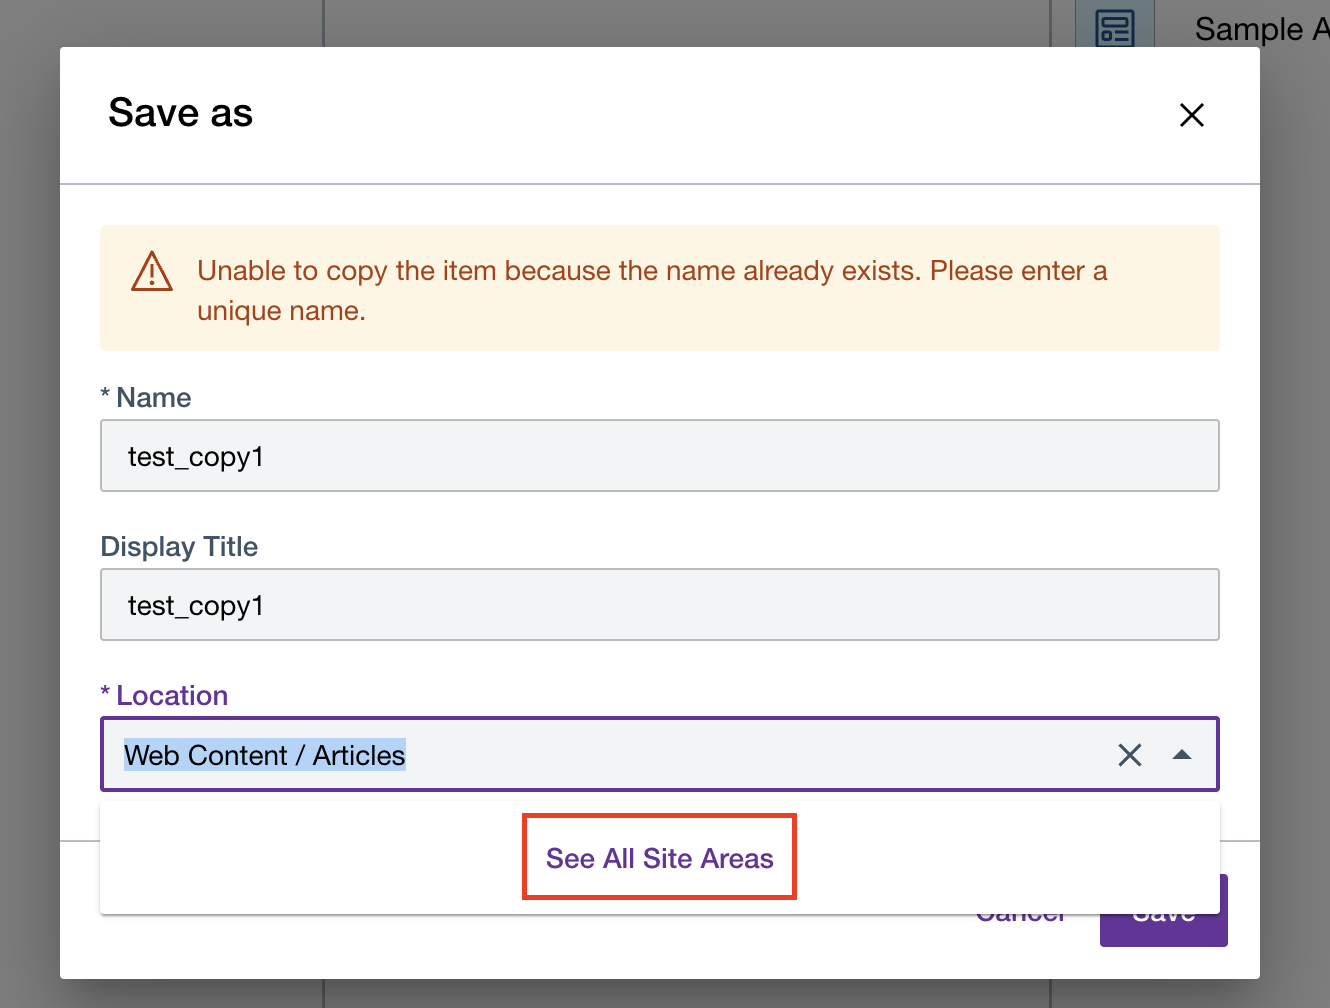
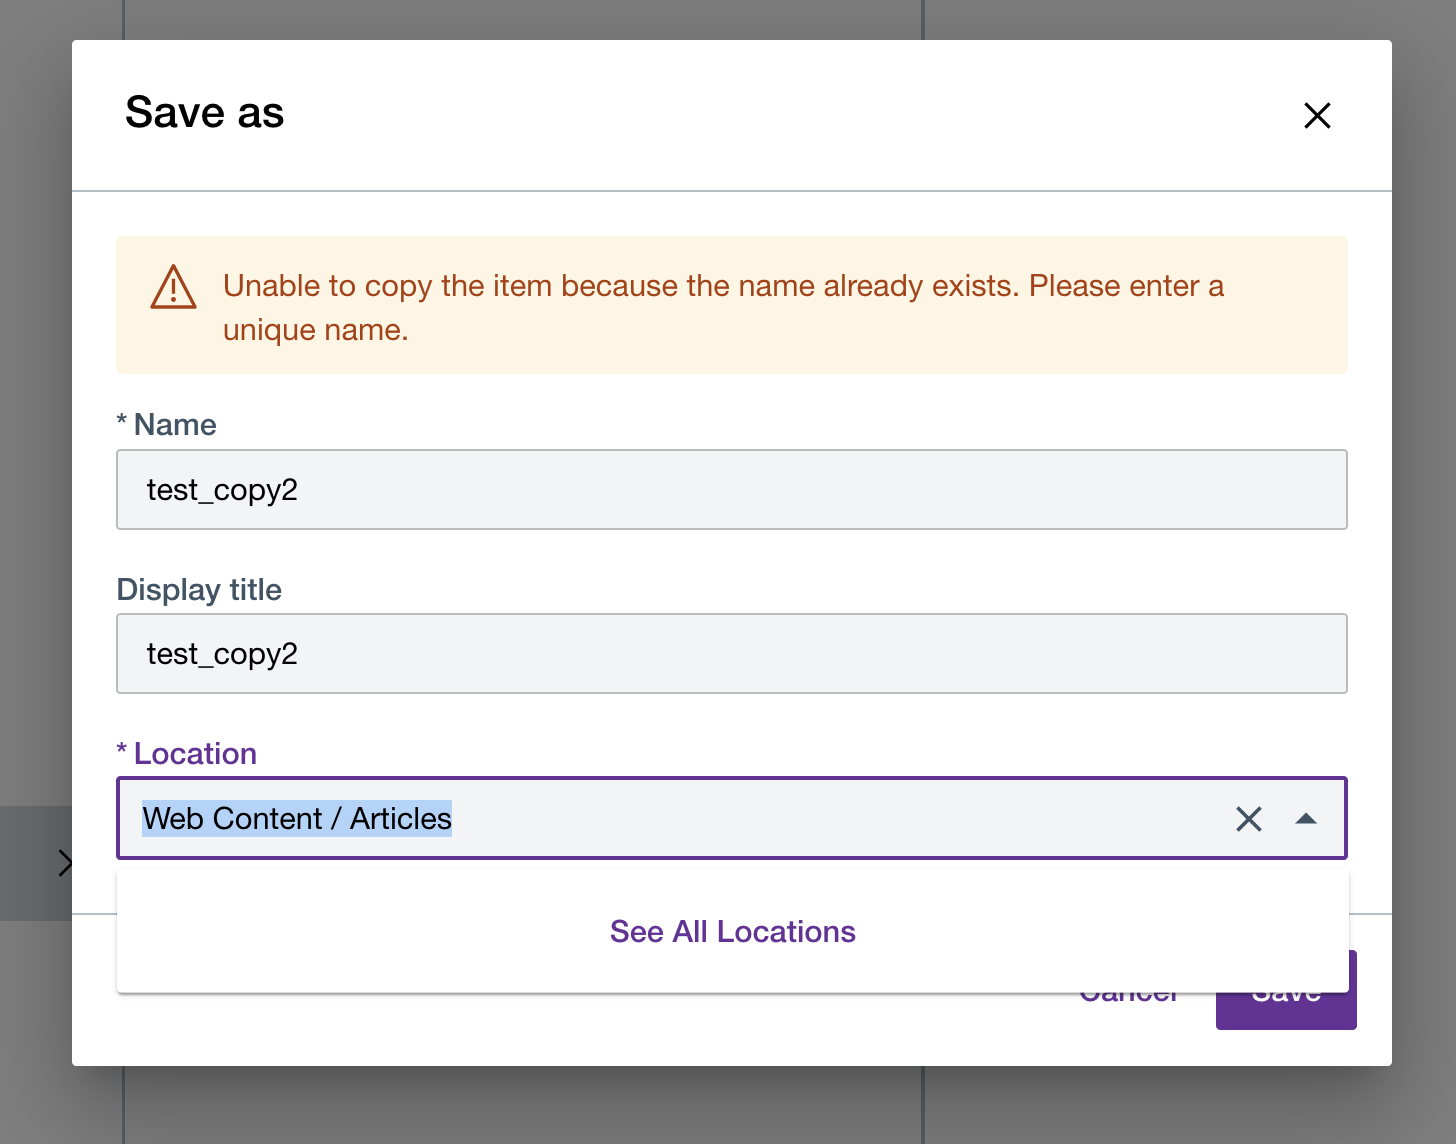
changed doc mentions of copying to a site area to also include portal page

Changed region(s): [[0.0308, 0.0, 1.0, 0.9841]]

diff --git a/docs/manage_content/wcm_authoring/content_composer/usage/author_and_manage_content_items/manage_content_items.md b/docs/manage_content/wcm_authoring/content_composer/usage/author_and_manage_content_items/manage_content_items.md
@@ -87,42 +87,42 @@ Content users can view a light preview of uploaded content and more using HCL Co
 
 ## Moving Content item
 
-Content users can move a content item to another site area location.
+Content users can move a content item to another location.
 
-1. Access the content item you wish to move. In this example, the content item example below \(**Image**\) is obtained from **Web Content \> Content \> Articles** site area location. Click the icon to select the content item. After doing so, click the **Move** icon on the header. 
+1. Access the content item you wish to move. In this example, the content item example below \(**Image**\) is obtained from **Web Content \> Content \> Articles** location. Click the icon to select the content item. After doing so, click the **Move** icon on the header. 
 
     ![Select Content Item to Move](../../../../../assets/Select_Content_Item_to_Move_HCL_Content_Composer.png)
 
-2. A location selector should appear on the screen. Pick the site area to move the content to. After selecting, click the **Move** button to finalize moving of the content item.
+2. A location selector should appear on the screen. Pick the location (site area or portal page) to move the content to. After selecting, click the **Move** button to finalize moving of the content item.
 
-    ![Select a site area location and click Move](../../../../../assets/Select_Site_Area_to_Move_Content_to_HCL_Content_Composer.png)
+    ![Select a location and click Move](../../../../../assets/Select_Site_Area_to_Move_Content_to_HCL_Content_Composer.png)
 
 ## Copying Content item
 
-Content users can copy a content item to another site area location.
+Content users can copy a content item to another location.
 
-1. Go to the content item you want to copy. In the example below, the content item is obtained from **Web Content > Content > Articles** site area location. Click the icon to select the content item and then click the **Copy** icon on the header. 
+1. Go to the content item you want to copy. In the example below, the content item is obtained from **Web Content > Content > Articles** location. Click the icon to select the content item and then click the **Copy** icon on the header. 
 
     ![Select Content Item to Copy](../../../../../assets/Select_Content_Item_to_Copy_HCL_Content_Composer.png)
 
-2. A location selector appears. Select the site area you want to copy the content to. After selecting, click the **Copy** button to finalize copying of the content item.
+2. A location selector appears. Select the location (site area or portal page) you want to copy the content to. After selecting, click the **Copy** button to finalize copying of the content item.
 
-    ![Select a site area location and click Copy](../../../../../assets/Select_Site_Area_to_Copy_Content_to_HCL_Content_Composer.png)
+    ![Select a location and click Copy](../../../../../assets/Select_Site_Area_to_Copy_Content_to_HCL_Content_Composer.png)
 
 
 ## Renaming Content item when there is conflict during move or copy
 
-Content users can rename a content item during moving or copying when there is another content with the same name in the selected site area location.
+Content users can rename a content item during moving or copying when there is another content with the same name in the selected location.
 
-1.  A **Save As** modal appears when a user tries to move or copy a content item in a site area location that has a content item with the same name. An auto-generated name and a display title are suggested.
+1.  A **Save As** modal appears when a user tries to move or copy a content item in a location that has a content item with the same name. An auto-generated name and a display title are suggested.
 
     ![Save as content item during moving conflict](../../../../../assets/save-as-content-item-during-copy-conflict.png)
 
-2.  Click **See All Site Areas** under **Location** to change the preferred location to move or copy the content item. A location selector appears where you can select the site area you want to save the content to.
+2.  Click **See All Location** under **Location** to change the preferred location to move or copy the content item. A location selector appears where you can select the site area or portal page you want to save the content to.
 
-    ![Select a site area location and click Move/Copy](../../../../../assets/select-site-area-to-move-content-during-copy-conflict.png)
+    ![Select a location and click Move/Copy](../../../../../assets/select-site-area-to-move-content-during-copy-conflict.png)
 
-3.  After finalizing the name, display title, and site area location, click the **Save** button to save the content item in the selected location.
+3.  After finalizing the name, display title, and location, click the **Save** button to save the content item in the selected location.
 
     ![Select Content Item to Move/Copy](../../../../../assets/save-content-item-to-new-location.png)
 
